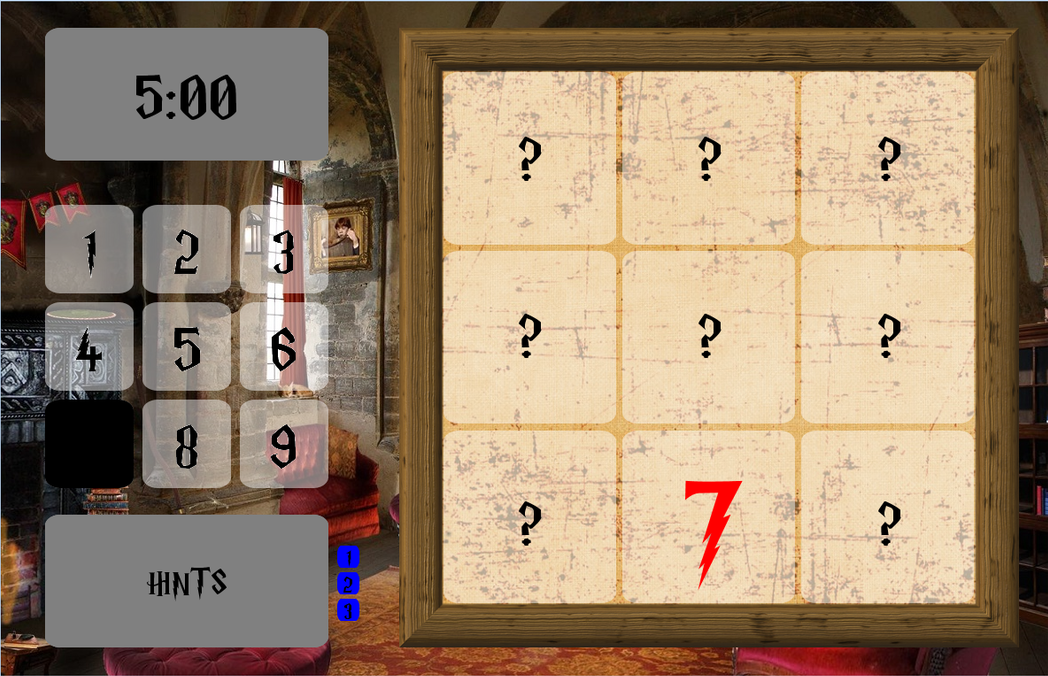
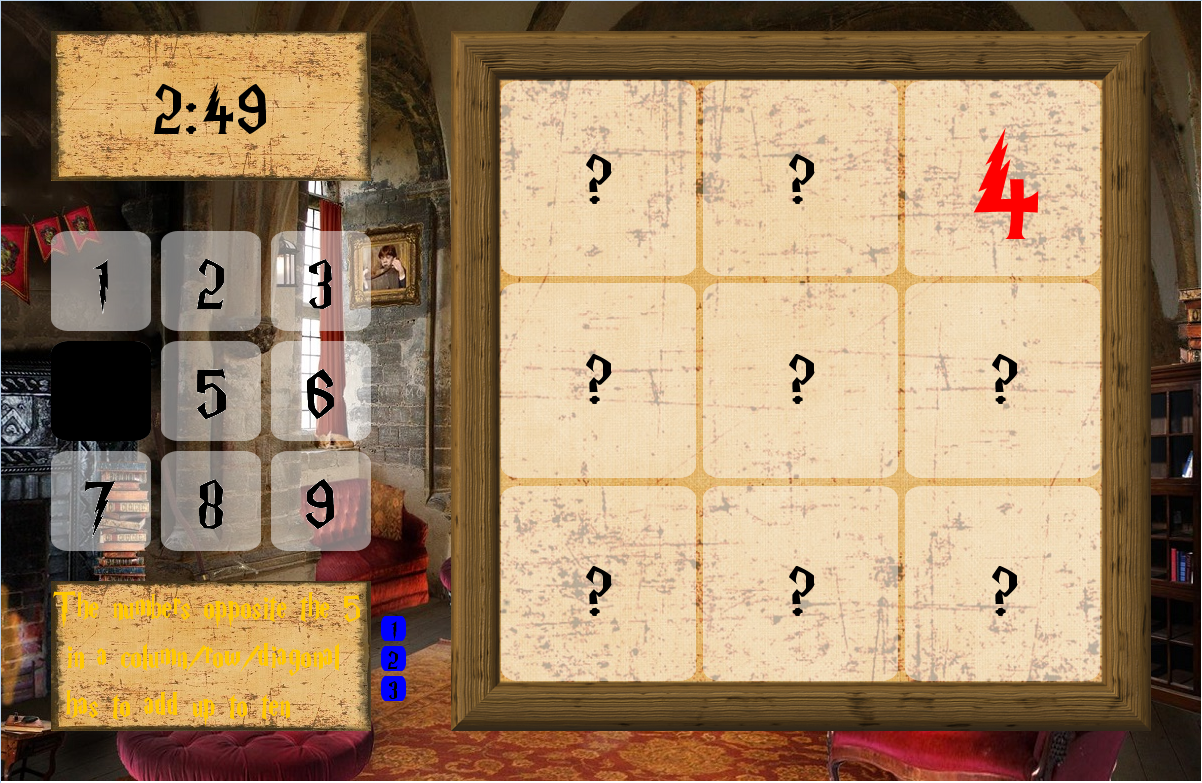
v

diff --git a/EscapeHogwarts2/src/hPMagicSquaresVickieJi/VickieHPFrontEnd.java b/EscapeHogwarts2/src/hPMagicSquaresVickieJi/VickieHPFrontEnd.java
@@ -119,13 +119,16 @@ public class VickieHPFrontEnd extends FullFunctionScreen implements JiHPSupport 
 		 * viewObjects.add(bTimer);
 		 */
 
-		Graphic wood = new Graphic(50, 50, 320, 150, "images/wood2.jpg");
+		Graphic wood = new Graphic(50, 50, 320, 150, "images/mSBoard320.jpg");
 		viewObjects.add(wood);
 
 		tTimer = new TextAreaColor(50, 50, 320, 150, "5:00", null, null);
 		viewObjects.add(tTimer);
+		
+		Graphic hwood = new Graphic(50, 600, 320, 150, "images/mSBoard320.jpg");
+		viewObjects.add(hwood);
 
-		hintBox = new TextAreaColor(50, 600, 320, 150, "HINTS", Color.gray, null);
+		hintBox = new TextAreaColor(50, 600, 320, 150, "HINTS", null, null);
 		viewObjects.add(hintBox);
 
 		hOne = new Button(380, 635, 25, 25, "1", Color.blue, new Action() {

diff --git a/EscapeHogwarts2/src/hPMagicSquaresVickieJi/Instruction.java b/EscapeHogwarts2/src/hPMagicSquaresVickieJi/Instruction.java
@@ -27,6 +27,9 @@ public class Instruction extends FullFunctionScreen{
 		back = new Graphic(0, 0, getWidth(), getHeight(), "images/MS-instruction.png");
 		viewObjects.add(back);
 		
+		Graphic trans = new Graphic(0,0, getWidth(), getHeight(), "images/black.png");
+		viewObjects.add(trans);
+		
 		skip = new Button(1000, 50, 100, 100, "Skip", Color.red, new Action() {
 
 			
